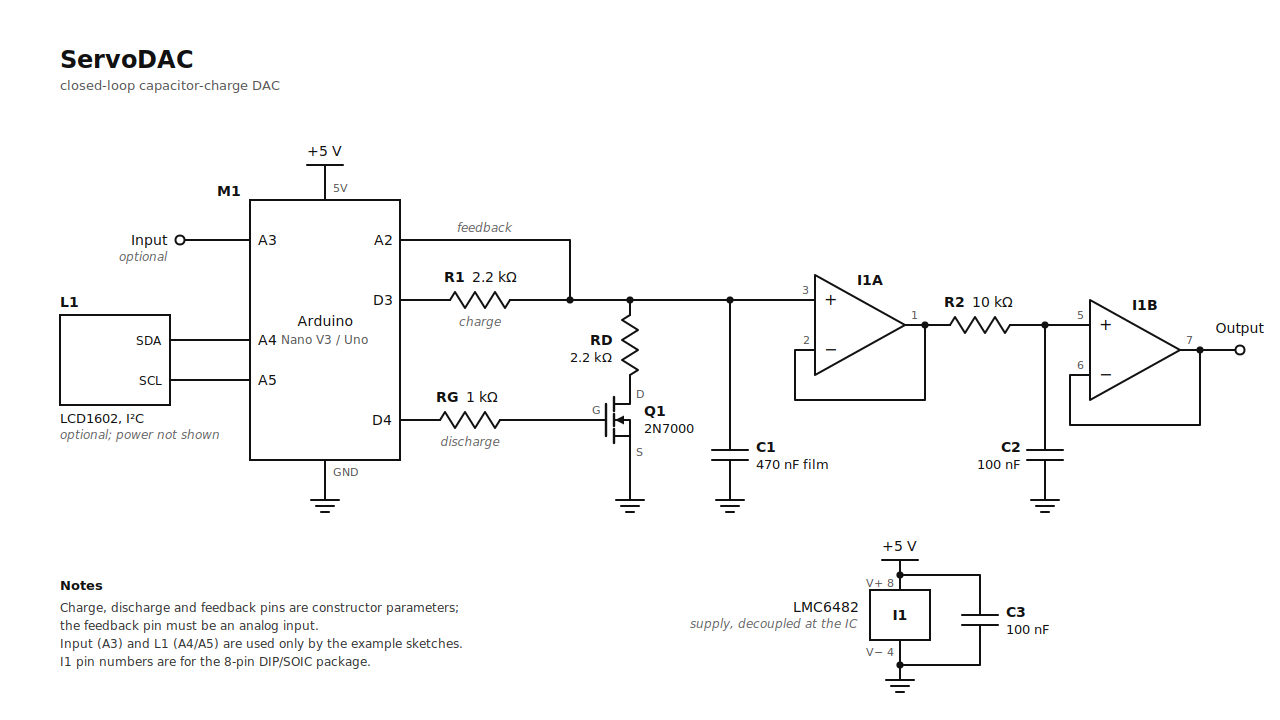
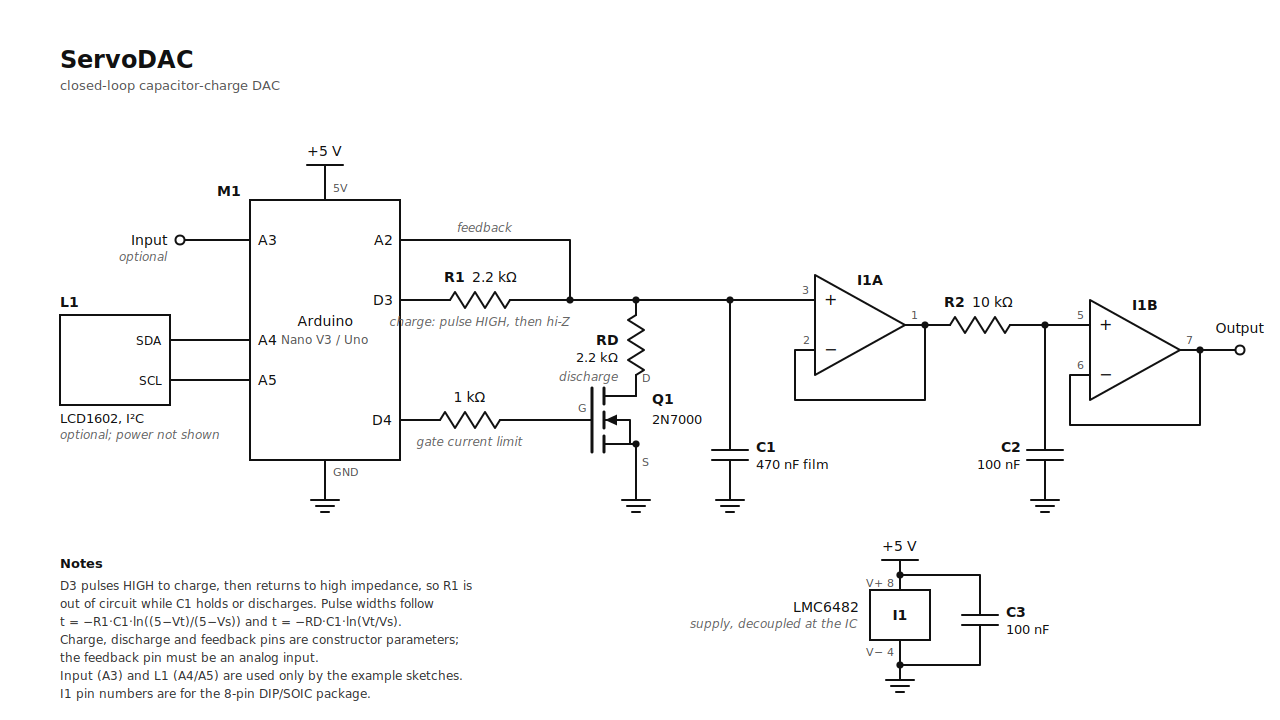
2nd new diagram version

diff --git a/gen_schematic.py b/gen_schematic.py
@@ -51,23 +51,26 @@ T(60,423,"LCD1602, I²C",size=13); note(60,439,"optional; power not shown")
 
 # charge path
 L((400,300),(450,300)); rh(450,300); L((510,300),(815,300))
-T(464,282,"R1","end",weight="bold"); T(472,282,"2.2 kΩ"); note(480,326,"charge","middle")
+T(464,282,"R1","end",weight="bold"); T(472,282,"2.2 kΩ"); note(480,326,"charge: pulse HIGH, then hi-Z","middle")
 # feedback
 dot(570,300); L((570,300),(570,240),(400,240)); note(485,232,"feedback","middle")
 # discharge
-L((400,420),(440,420)); rh(440,420); L((500,420),(606,420))
-T(458,402,"RG","end",weight="bold"); T(466,402,"1 kΩ"); note(470,446,"discharge","middle")
-dot(630,300); L((630,300),(630,315)); rv(630,315); L((630,375),(630,404),(614,404))
-T(612,345,"RD","end",weight="bold")
-T(612,362,"2.2 kΩ","end",size=13)
-# Q1
-L((606,404),(606,436),w=2.4)
-for a,b in((397,411),(414,426),(429,443)): L((614,a),(614,b),w=2.4)
-L((614,436),(630,436),(630,GY)); L((614,420),(630,420),(630,436))
-o.append('<polygon points="615,420 624,415.5 624,424.5" fill="#111"/>')
-gnd(630,GY)
-T(644,416,"Q1",weight="bold"); T(644,433,"2N7000",size=13)
-pin(600,414,"G","end"); pin(636,398,"D"); pin(636,456,"S")
+L((400,420),(440,420)); rh(440,420); L((500,420),(592,420))
+T(470,402,"1 kΩ","middle"); note(470,446,"gate current limit","middle")
+dot(636,300); L((636,300),(636,315)); rv(636,315); L((636,375),(636,396))
+T(618,345,"RD","end",weight="bold")
+T(618,362,"2.2 kΩ","end",size=13); note(618,381,"discharge","end")
+# Q1 -- N-channel MOSFET, enlarged
+L((592,388),(592,452),w=3)                               # gate bar
+for a,b in ((388,404),(412,428),(436,452)):              # channel segments
+    L((604,a),(604,b),w=3)
+L((604,396),(636,396))                                   # drain to RD
+L((604,444),(636,444),(636,GY))                          # source down to ground
+L((604,420),(630,420),(630,444)); dot(636,444)           # body tie to source
+o.append('<polygon points="605,420 617,414.5 617,425.5" fill="#111"/>')
+gnd(636,GY)
+T(652,404,"Q1",weight="bold"); T(652,424,"2N7000",size=13)
+pin(586,412,"G","end"); pin(642,382,"D"); pin(642,466,"S")
 # C1
 dot(730,300); L((730,300),(730,450)); cap(730,450); L((730,460),(730,GY)); gnd(730,GY)
 T(756,452,"C1",weight="bold"); T(756,469,"470 nF film",size=13)
@@ -95,12 +98,15 @@ T(1006,617,"C3",weight="bold"); T(1006,634,"100 nF",size=13)
 T(px-42,612,"LMC6482","end"); note(px-42,628,"supply, decoupled at the IC","end")
 
 # notes
-T(60,590,"Notes",weight="bold",size=13)
-for i,s in enumerate(["Charge, discharge and feedback pins are constructor parameters;",
+T(60,568,"Notes",weight="bold",size=13)
+for i,s in enumerate(["D3 pulses HIGH to charge, then returns to high impedance, so R1 is",
+                      "out of circuit while C1 holds or discharges. Pulse widths follow",
+                      "t = −R1·C1·ln((5−Vt)/(5−Vs)) and t = −RD·C1·ln(Vt/Vs).",
+                      "Charge, discharge and feedback pins are constructor parameters;",
                       "the feedback pin must be an analog input.",
                       "Input (A3) and L1 (A4/A5) are used only by the example sketches.",
                       "I1 pin numbers are for the 8-pin DIP/SOIC package."]):
-    T(60,612+i*18,s,size=12,fill="#333")
+    T(60,590+i*18,s,size=12,fill="#333")
 
 svg=('<svg xmlns="http://www.w3.org/2000/svg" viewBox="0 0 1280 720" width="1280" height="720" '
      'font-family="\'DejaVu Sans\', Helvetica, Arial, sans-serif">\n<rect width="1280" height="720" fill="#fff"/>\n'
